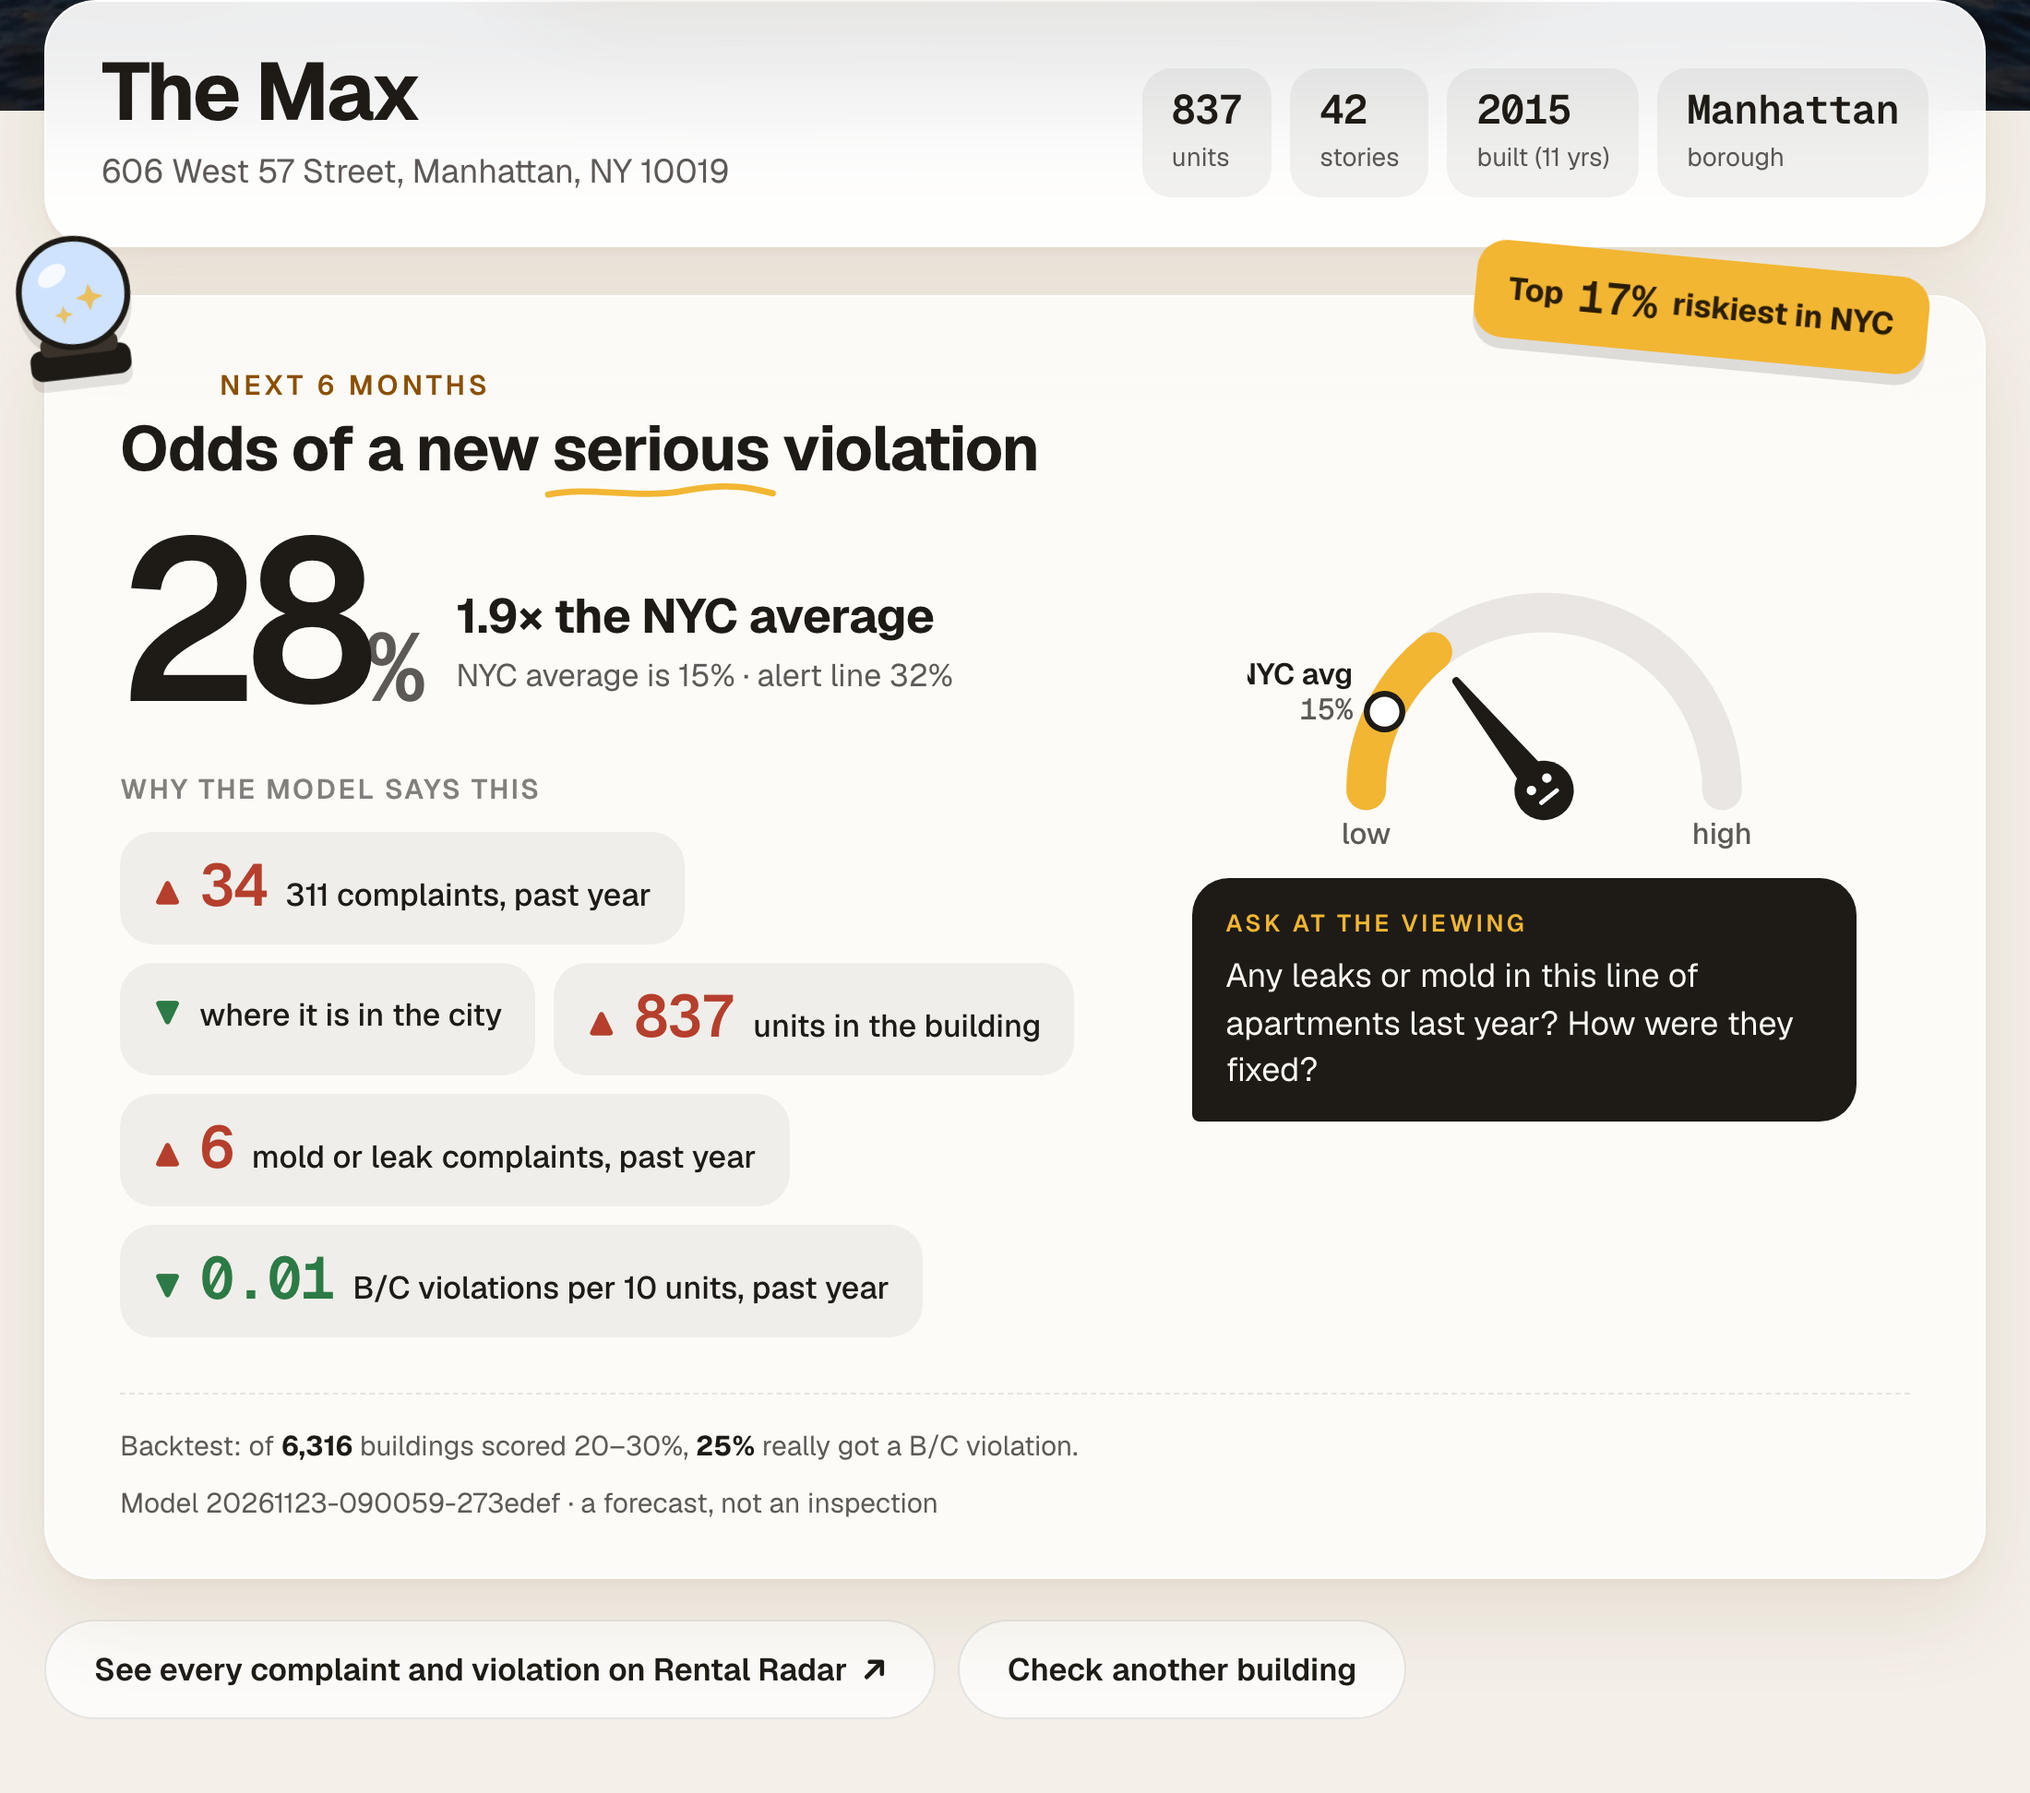
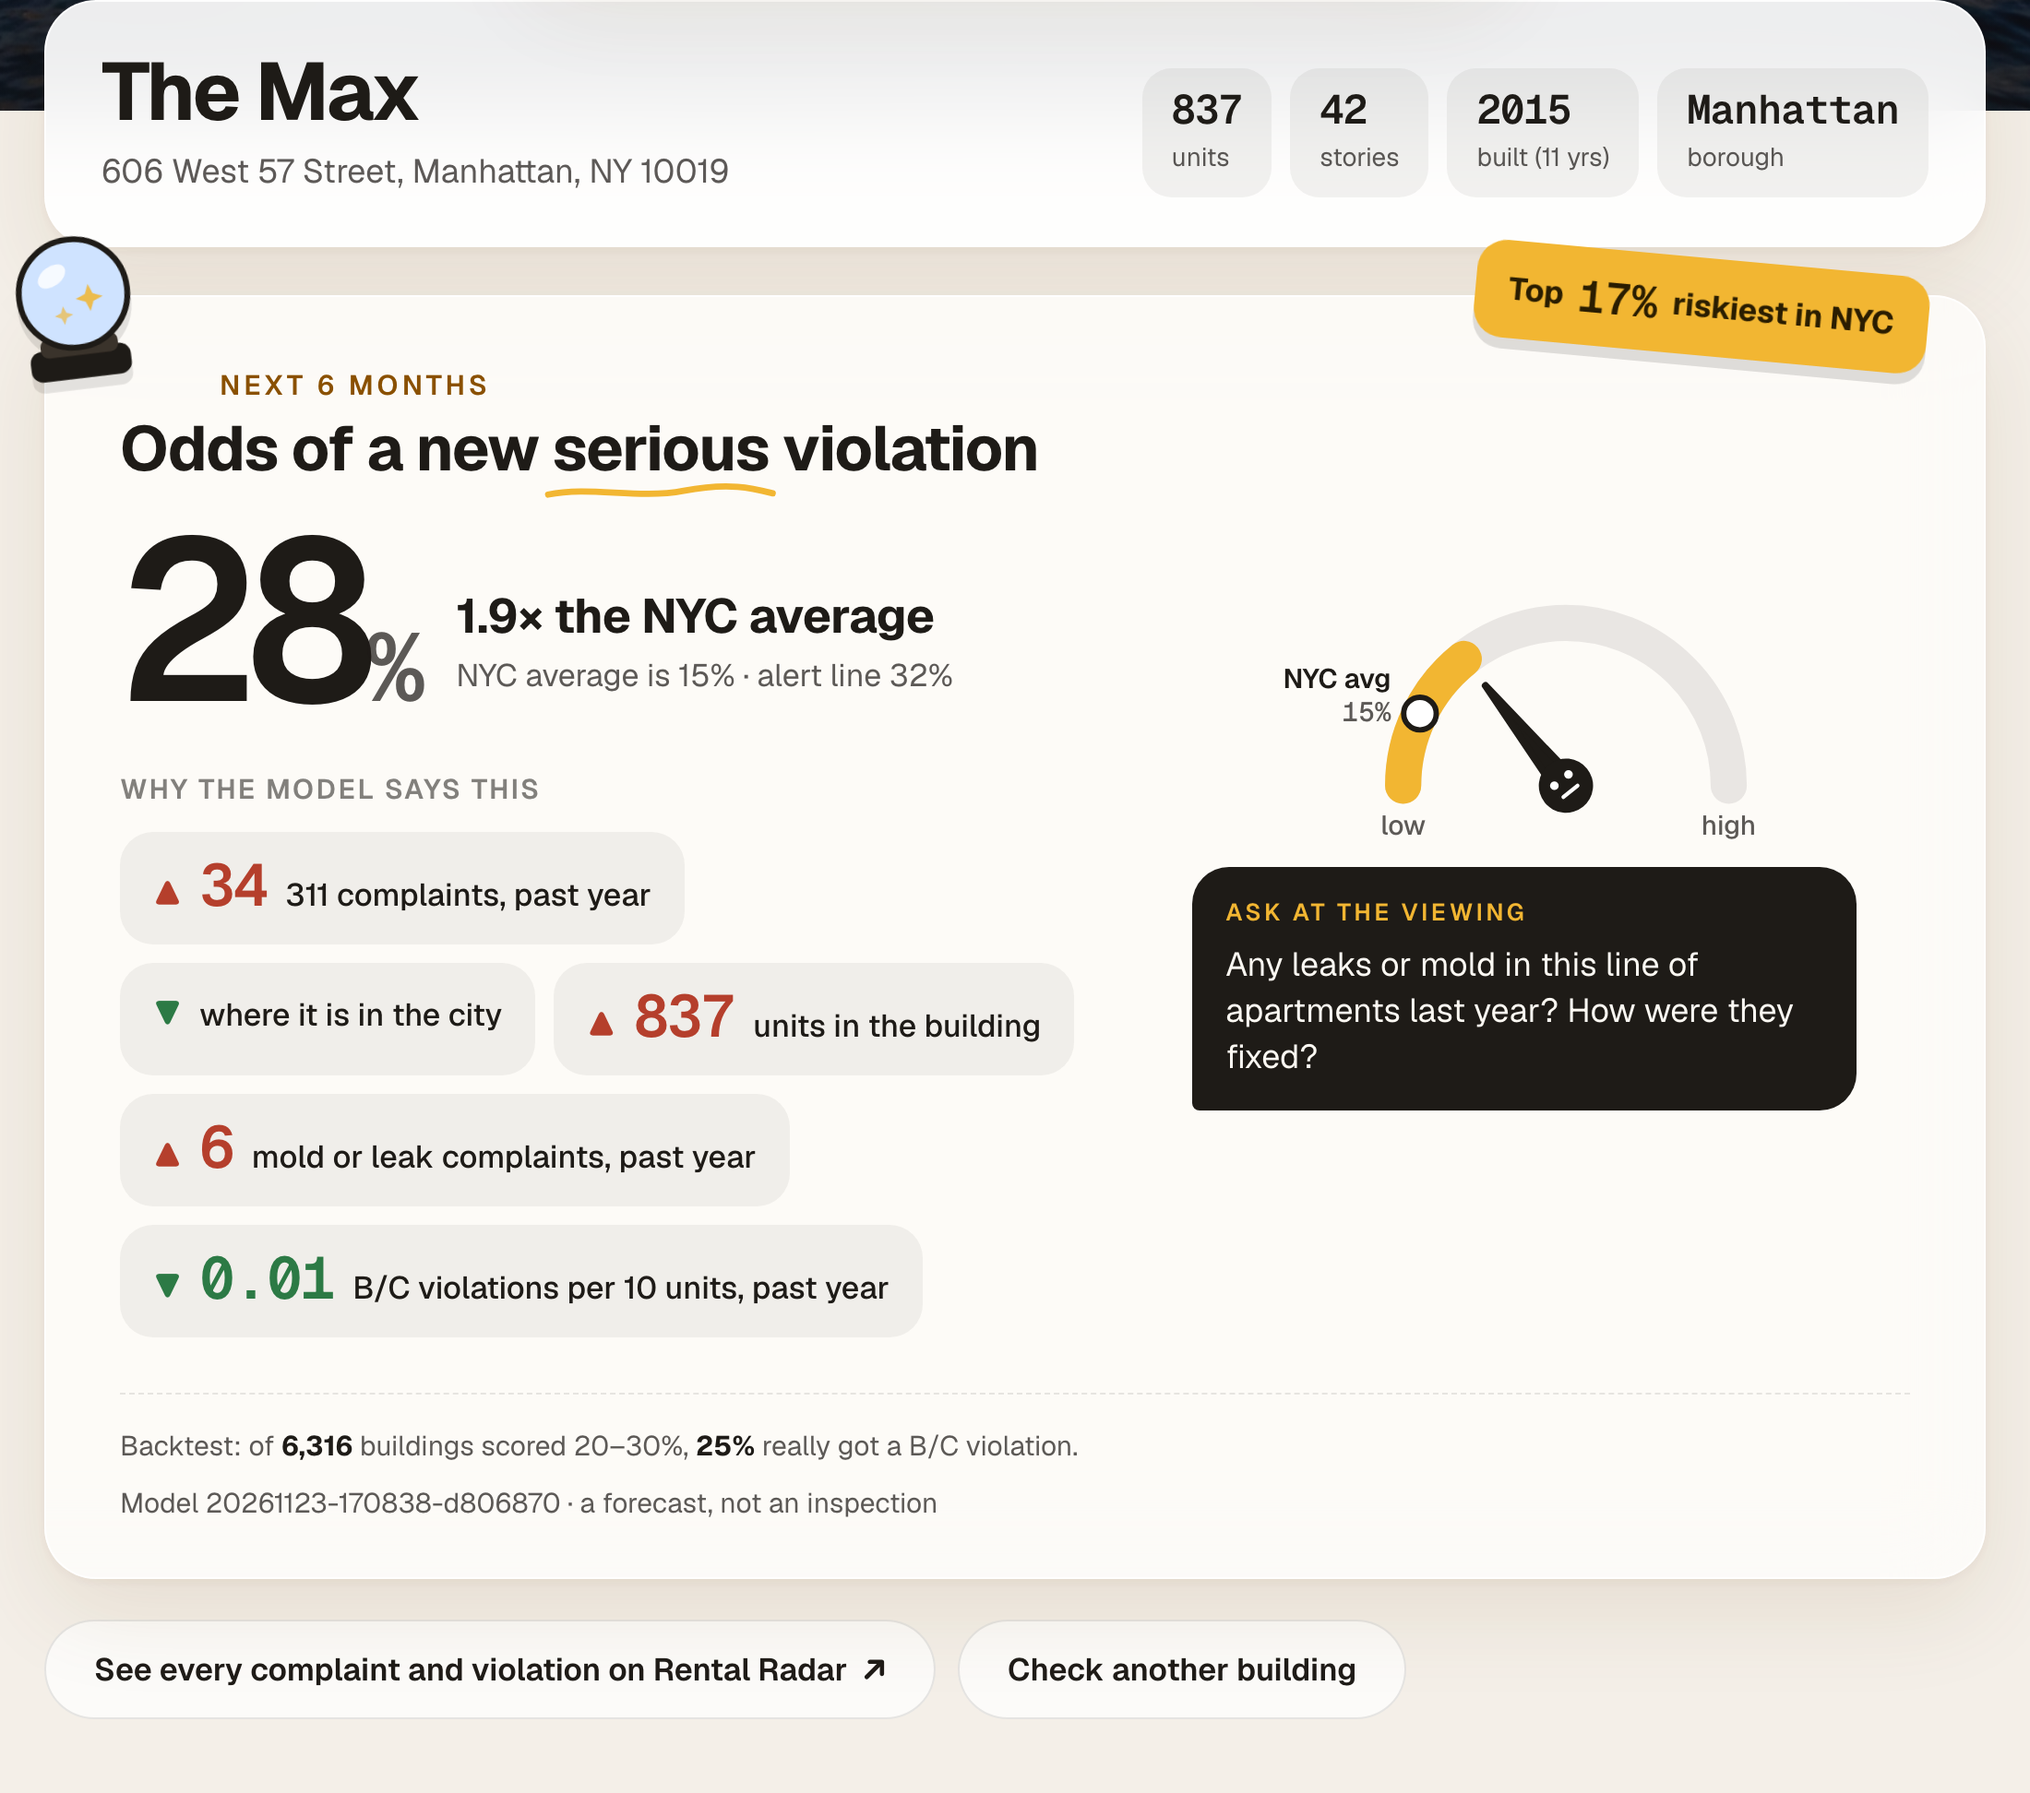
README: assignment checklist, fresh screenshots from the live front end
- New "Assignment checklist" table: each requirement with where it is and the evidence
- Screenshots retaken from the live Hugging Face page calling Cloud Run (gauge label fixed, current model version)
- Stale model version in the local curl example, sticker text, and the PR history with numbers

Changed region(s): [[0.5873, 0.3395, 0.8964, 0.6481], [0.1545, 0.8333, 0.2782, 0.8642]]

diff --git a/README.md b/README.md
@@ -15,6 +15,29 @@ Duke AIPI 510 · Module Project 3: Data/ML Engineering
 
 ![Front end: forecast for The Max](docs/img/frontend-forecast.png)
 
+## Assignment checklist
+
+Every requirement of the assignment, with where to find it. All links point at the live services or at files in this repository.
+
+| Requirement | Where it is | Evidence |
+|---|---|---|
+| Public dataset, supervised task, target and metric | [§1](#1-overview-and-goals), [§2](#2-dataset) | NYC Open Data; binary target "class B/C HPD violation in the next 6 months"; primary metric PR-AUC |
+| Cleaned locally, stored in the cloud | [`data_prep/`](data_prep), [§4](#4-cloud-services) | cleaned with DuckDB, uploaded to **Google Cloud Storage** `gs://rental-radar-ml-7631fd34/v1/` with SHA-256 hashes |
+| Script that downloads the data in the pipeline | [`src/ingest.py`](src/ingest.py) | `python -m src.train` downloads from GCS and verifies every file before training |
+| Simple model | [`src/train.py`](src/train.py), [§3](#3-model-and-evaluation) | two baselines, logistic regression, XGBoost (selected on validation PR-AUC) |
+| Pipeline: ingest, preprocessing and features, split, train, evaluate | [`src/`](src) | `ingest.py` → `features.py` → `split.py` (time-based train/val/test) → `train.py` → `evaluate.py` |
+| `config.yaml` | [`config.yaml`](config.yaml) | data sources, dates, features, target, split, hyperparameters, evaluation, MLflow, serving |
+| Experiment tracking (params, metrics, artifacts) | [§3 MLflow](#experiment-tracking-mlflow) | MLflow parent run + 4 nested runs; params, metrics, datasets, figures, model; registered as `violation-risk-classifier` |
+| Dockerfile with train and serve entry points, built and run locally | [`Dockerfile`](Dockerfile), [`scripts/entrypoint.sh`](scripts/entrypoint.sh), [§6.3](#63-build-and-run-the-docker-image-locally) | `docker run rental-radar-ml` (serve), `... train`, `... test` |
+| FastAPI `/predict` with JSON input, tested with curl | [`api/main.py`](api/main.py), [`scripts/smoke_test.sh`](scripts/smoke_test.sh), [§6.4](#64-test-the-api-locally-with-curl) | `POST /predict` returns probability, label and drivers; invalid input returns 422 |
+| Deployed to the cloud, `/predict` public and verified over HTTP | [§6.5](#65-deploy) | **Cloud Run**: `POST https://rental-radar-ml-api-976733016944.us-east1.run.app/predict` (live response shown in §6.5) |
+| Front end that calls the deployed API, interactive, hosted publicly | [`frontend/`](frontend), [§7](#7-front-end) | **https://huggingface.co/spaces/canyangxu077/rental-radar-forecast** — search → forecast card → model section → the live request it just sent |
+| README sections | this file | overview and goals, dataset, model and evaluation, cloud services, setup, usage (train, build, test the API, deploy), links |
+| `requirements.txt` | [`requirements.txt`](requirements.txt) | pinned versions, Python 3.12 |
+| Tests | [`tests/`](tests) | 30 tests: config, leakage at the cutoff, GCS integrity, features, training end to end, API |
+| Branches and pull requests | [pull requests](https://github.com/canyangxu/rental-radar-ml/pulls?q=is%3Apr) | one branch and PR per part: skeleton → data → model → API → Docker/Cloud Run → front end → docs → fixes → deployment |
+| Ethics and limitations | [§9](#9-ethics-and-limitations) | label bias from complaint-driven inspections, neighborhood signal, size bias, error costs, drift |
+
 ---
 
 ## Contents
@@ -248,7 +271,7 @@ curl -X POST http://localhost:8080/predict -H "Content-Type: application/json" \
 {"probability":0.288,"label":0,"risk_level":"medium","percentile":0.832,"threshold":0.32,"base_rate":0.1461,
  "backtest_band":{"low":0.2,"high":0.3,"n":6316,"mean_predicted":0.2465,"observed_rate":0.2459},
  "drivers":[{"feature":"c12_all","label":"311 complaints, past year","value":34.0,"effect":"raises","contribution":0.62}, "..."],
- "model_version":"20261123-090059-273edef"}
+ "model_version":"20261123-170838-d806870"}
 ```
 
 | Endpoint | Description |
@@ -293,7 +316,7 @@ A static page (HTML, CSS and JavaScript, no build step) in [`frontend/`](fronten
 2. **Forecast card.** `GET /buildings/{id}` returns the features, then `POST /predict`:
    - the probability, with a count-up animation;
    - a gauge with the NYC average marked;
-   - a "Top 3% riskiest in NYC" sticker;
+   - a "Top N% riskiest in NYC" sticker from the percentile (The Max: top 17%);
    - the reasons behind the score;
    - one question to ask at the viewing.
 3. **Behind the forecast.** `GET /model` supplies the pipeline steps, PR-AUC against the baselines, the confusion matrix and calibration.
@@ -331,7 +354,7 @@ reports/                 test metrics (metrics.json) and figures from the latest
 docs/img/                screenshots
 ```
 
-Development history: each part landed through its own branch and pull request (skeleton → data → model → API → Docker/Cloud Run → front end → docs).
+Development history: each part landed through its own branch and [pull request](https://github.com/canyangxu/rental-radar-ml/pulls?q=is%3Apr): skeleton (#1) → data and GCS (#2) → model and MLflow (#3) → API (#4) → Docker and Cloud Run (#5) → front end (#6) → README (#7) → code-review fixes (#8) → live deployment links (#9) → front-end polish (#10).
 
 ## 9. Ethics and limitations
 
